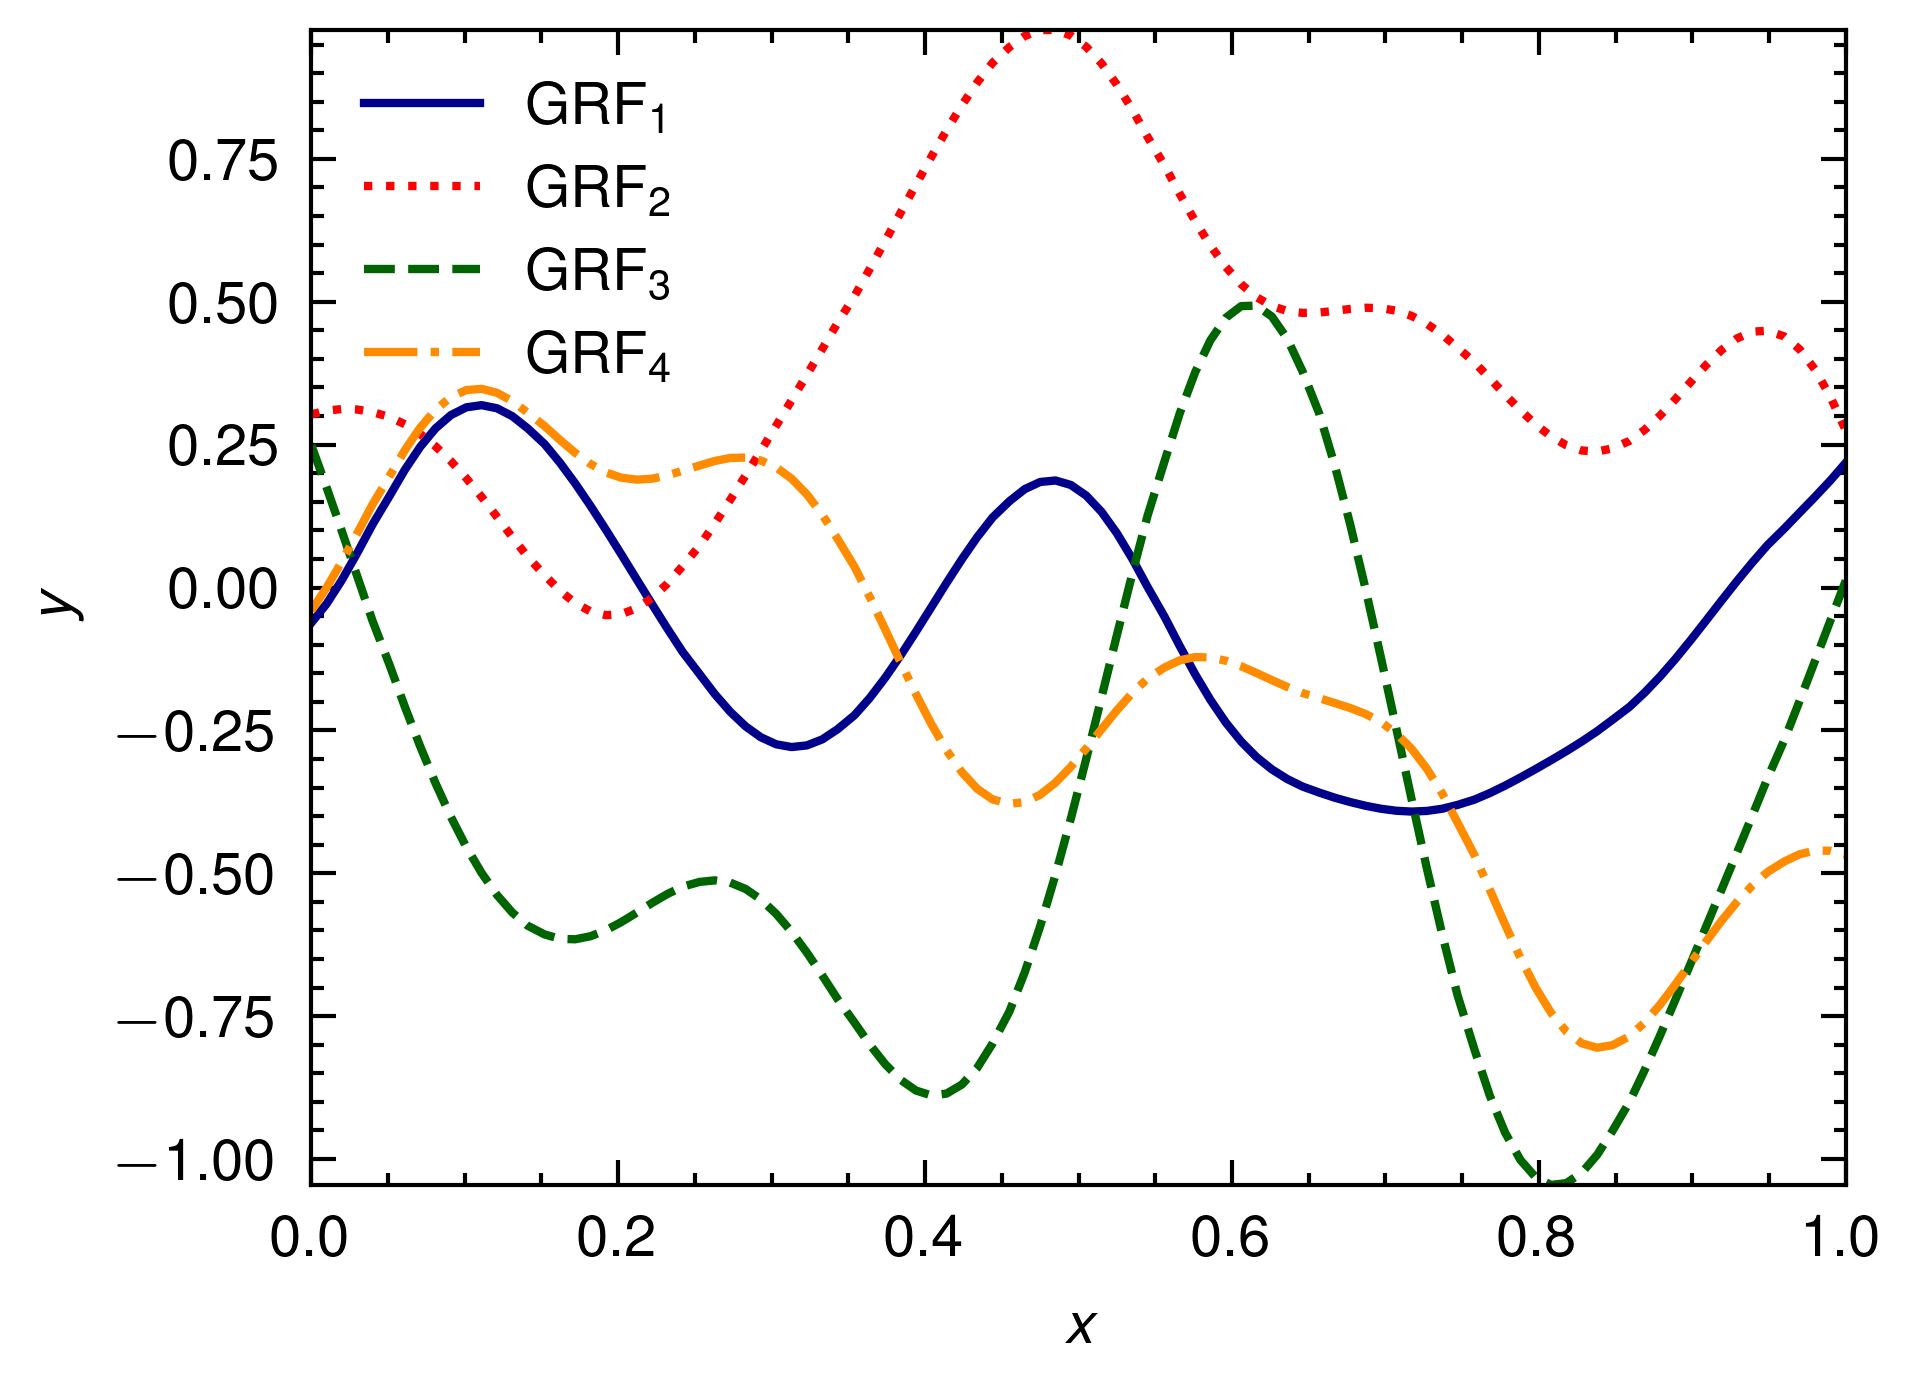
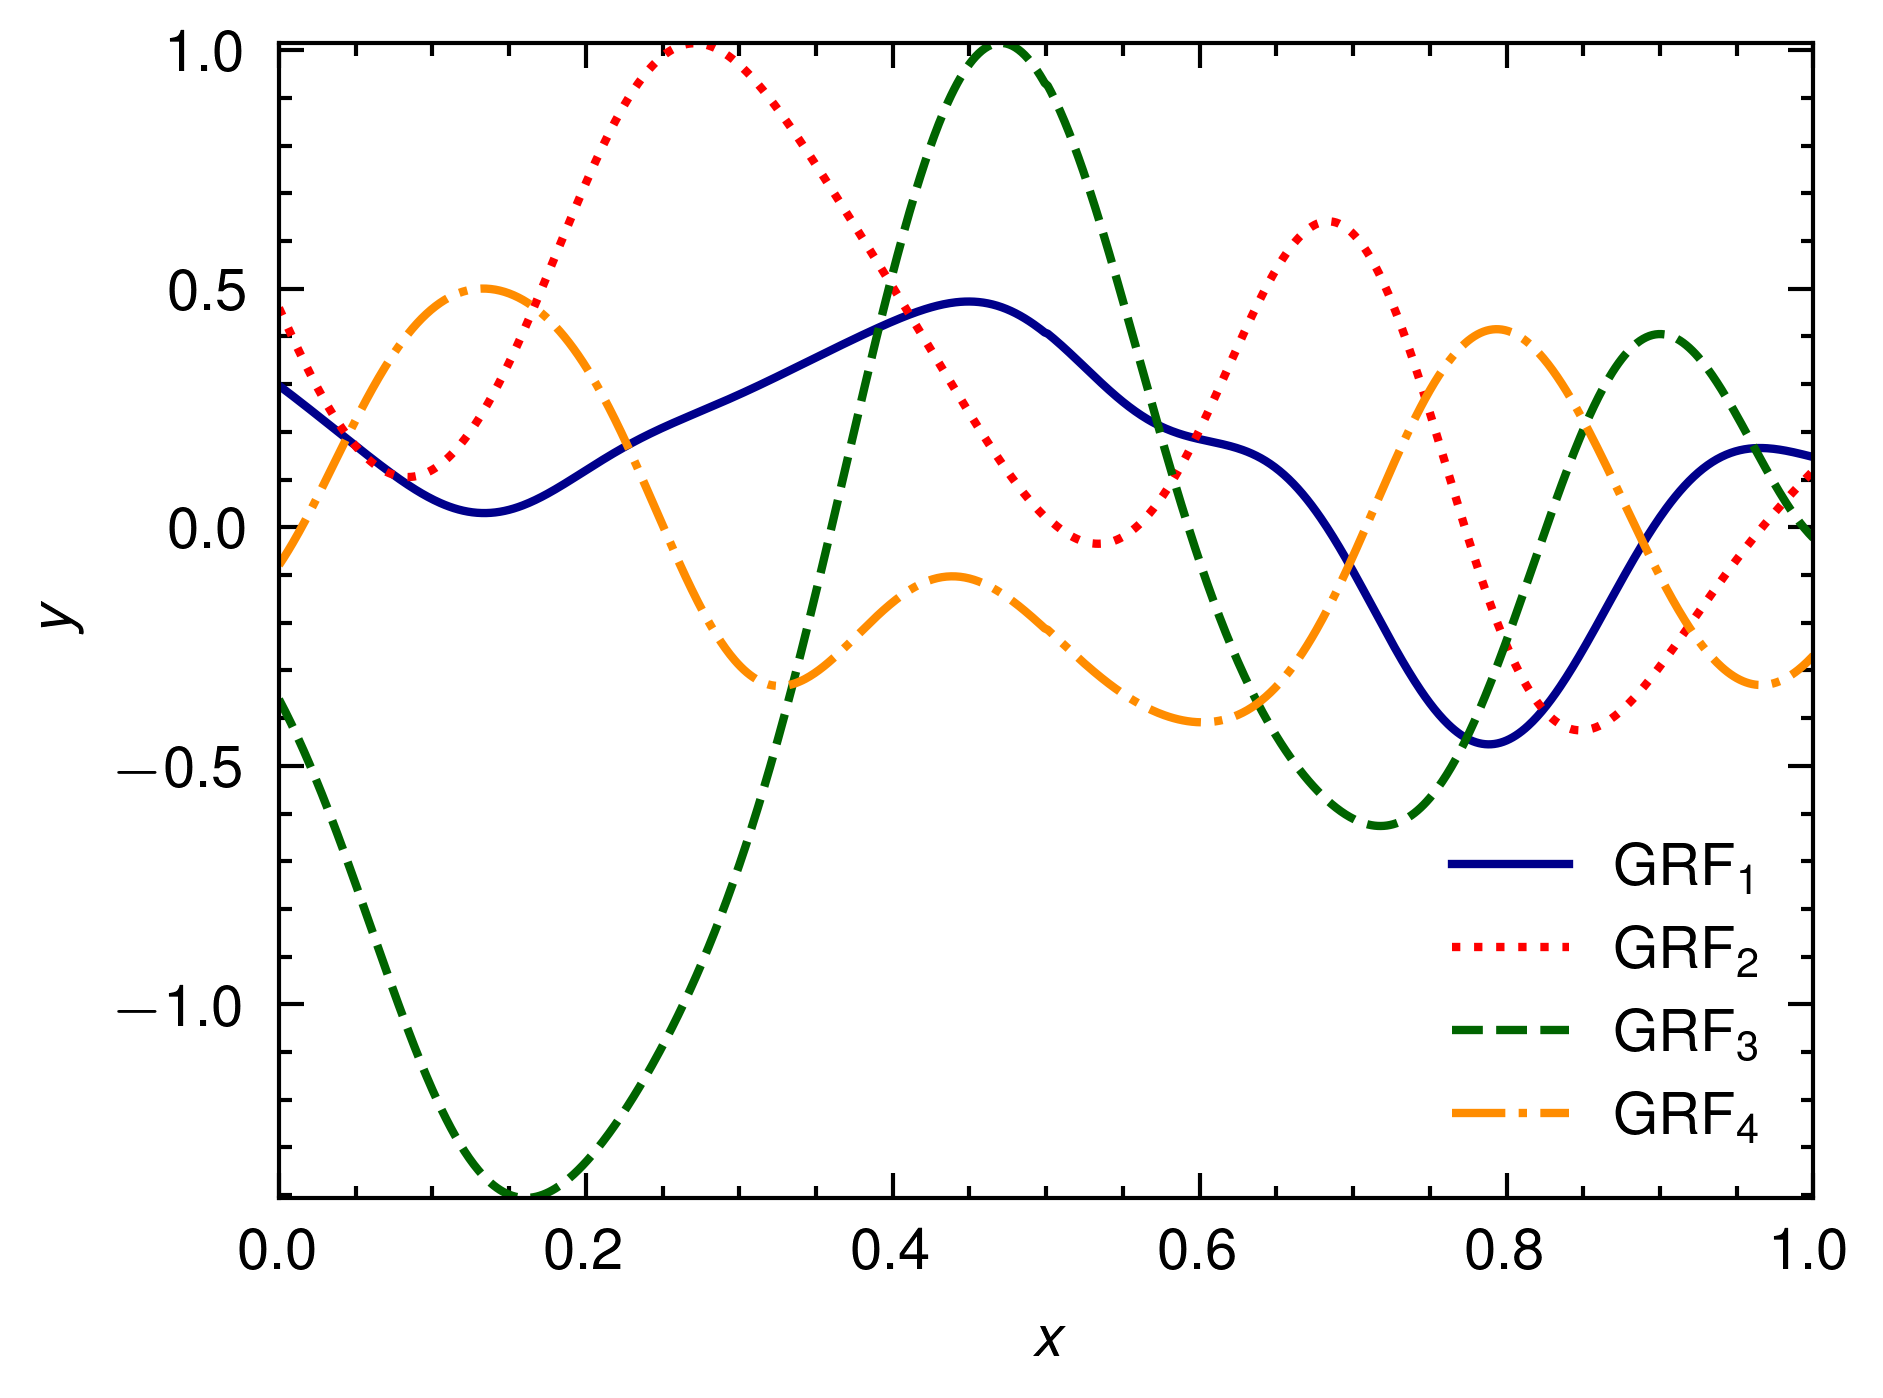
Fix precision for y_range

diff --git a/src/main.rs b/src/main.rs
@@ -10,7 +10,7 @@ fn main() {
     let n = 1000;
 
     let grf_vec = (0 .. n)
-        .map(|_| gen_grf(x_min, x_max, 0.1, 100))
+        .map(|_| gen_grf(x_min, x_max, 0.1, 1000))
         .collect::<Vec<_>>();
 
     // Normalize
@@ -37,8 +37,8 @@ fn main() {
             grf.fmap(|x| (x - grf_min_sigma) / (grf_max_sigma - grf_min_sigma) * 2f64 - 1f64)
         }).collect::<Vec<_>>();
 
-    let x = linspace_with_precision(x_min, x_max, 100, 3);
-    let y_range = linspace_with_precision(x_min, x_max, 20, 1);
+    let x = linspace_with_precision(x_min, x_max, 1000, 3);
+    let y_range = linspace_with_precision(x_min, x_max, 100, 3);
 
     // Integration
     let grf_int_vec = grf_scaled_vec
